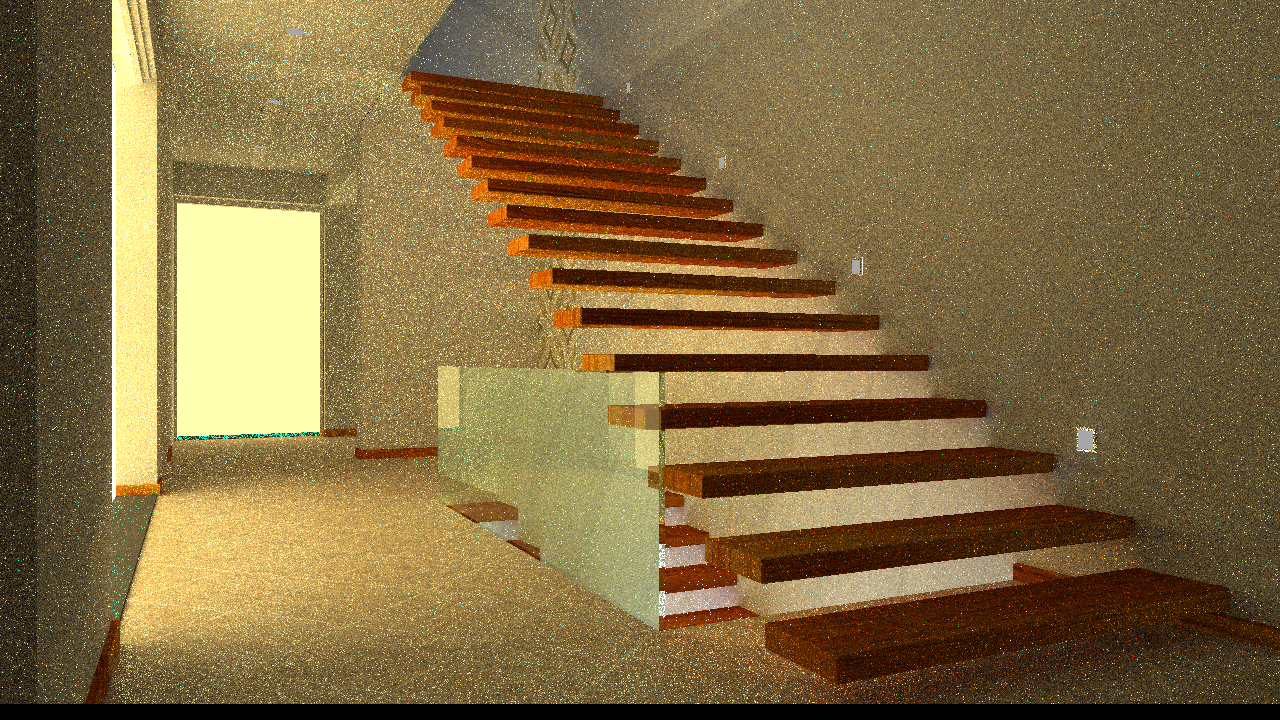
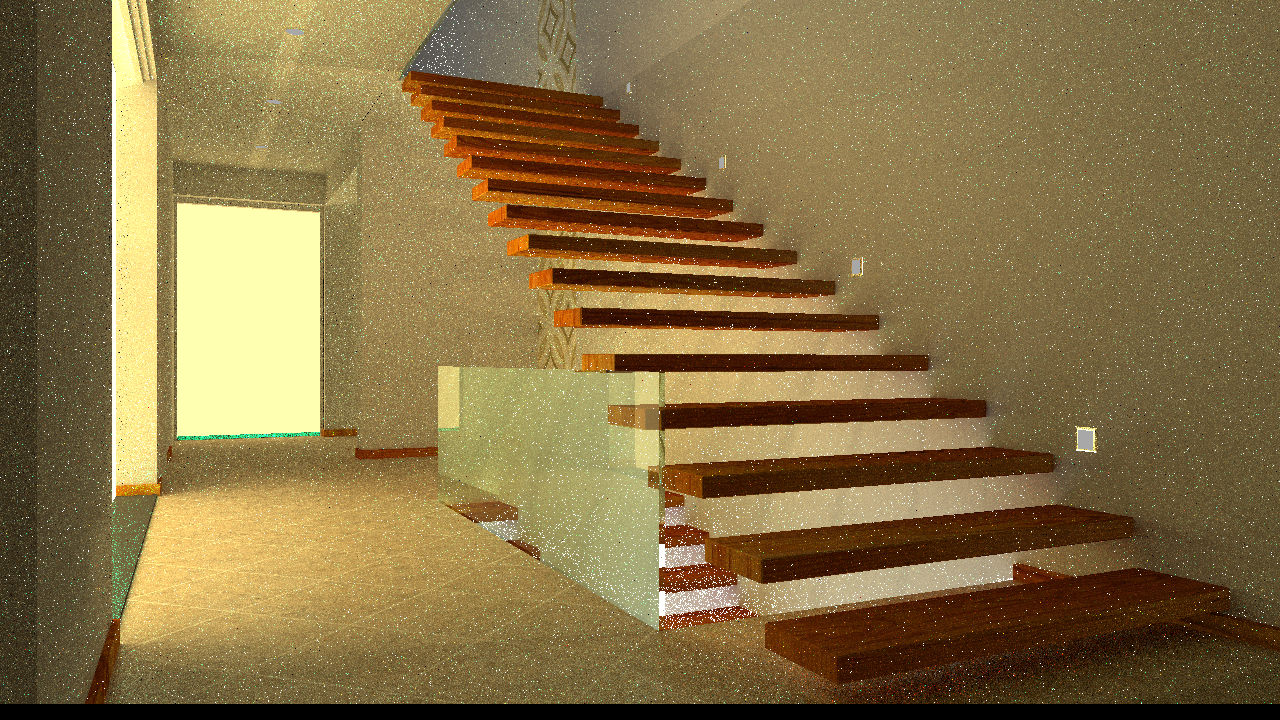
update stairscase result image

diff --git a/results/MonteCarloPathTracer.html b/results/MonteCarloPathTracer.html
@@ -263,6 +263,7 @@ pre[data-line] .line-highlight[data-end]:after {
       <div class="mume markdown-preview  ">
       <div><h1 class="mume-header" id="monte-carlo-path-tracer">Monte Carlo Path Tracer</h1>
 
+<hr>
 <h2 class="mume-header" id="features">Features</h2>
 
 <ul>
@@ -274,27 +275,29 @@ pre[data-line] .line-highlight[data-end]:after {
 </ul>
 <h2 class="mume-header" id="results">Results</h2>
 
-<h4 class="mume-header" id="veach-mis-spp128">veach-mis <em><strong>(spp=128)</strong></em></h4>
+<h3 class="mume-header" id="veach-mis--methodmis-nbsp-spp1024-nbsp-time20mins">veach-mis &#x3000;<em>(method=MIS &#xA0; spp=1024 &#xA0; time~=20mins)</em></h3>
 
 <img src="veach-mis.png" width height="512" alt="veach-mis">
-<h4 class="mume-header" id="cornell-box-spp16">cornell-box <em><strong>(spp=16)</strong></em></h4>
+<h3 class="mume-header" id="cornell-box---methodnee-nbsp-spp16-nbsp-time05h">cornell-box  &#x3000;<em>(method=NEE &#xA0; spp=16 &#xA0; time=~0.5h)</em></h3>
 
 <img src="cornell-box.png" width height="512" alt="cornell-box">
-<h4 class="mume-header" id="stairscase-spp128">stairscase <em><strong>(spp=128)</strong></em></h4>
+<h3 class="mume-header" id="stairscase---methodmis-nbsp-spp1024-nbsp-time4h">stairscase  &#x3000;<em>(method=MIS &#xA0; spp=1024 &#xA0; time=~4h)</em></h3>
 
 <img src="stairscase.png" width height="512" alt="stariscase">
 <h2 class="mume-header" id="usage">Usage</h2>
 
-<pre data-role="codeBlock" data-info="c++" class="language-cpp">mkdir build <span class="token operator">&amp;&amp;</span> cd build <span class="token operator">&amp;&amp;</span> make <span class="token operator">-</span>j4 <span class="token operator">&amp;&amp;</span> <span class="token punctuation">.</span><span class="token operator">/</span>PathTracing veach<span class="token operator">-</span>mis <span class="token number">16</span> NEE
-<span class="token punctuation">.</span><span class="token operator">/</span>PathTracing <span class="token punctuation">[</span>arg1<span class="token punctuation">]</span> <span class="token punctuation">[</span>arg2<span class="token punctuation">]</span> <span class="token punctuation">[</span>arg3<span class="token punctuation">]</span>
-arg1<span class="token operator">:</span> foldername in <span class="token operator">/</span>models
-arg2<span class="token operator">:</span> samples per pixel AKA spp
-arg3<span class="token operator">:</span> different sampling <span class="token function">method</span> <span class="token punctuation">(</span>options<span class="token operator">:</span> NEE<span class="token operator">/</span>BRDF<span class="token operator">/</span>MIS<span class="token punctuation">)</span>
+<pre data-role="codeBlock" data-info="bash" class="language-bash"><span class="token function">mkdir</span> build <span class="token operator">&amp;&amp;</span> <span class="token builtin class-name">cd</span> build <span class="token operator">&amp;&amp;</span> <span class="token function">make</span> -j4 <span class="token operator">&amp;&amp;</span> ./PathTracing veach-mis <span class="token number">16</span> NEE
+./PathTracing <span class="token punctuation">[</span>arg1<span class="token punctuation">]</span> <span class="token punctuation">[</span>arg2<span class="token punctuation">]</span> <span class="token punctuation">[</span>arg3<span class="token punctuation">]</span>
+arg1: foldername <span class="token keyword keyword-in">in</span> /models
+arg2: samples per pixel AKA spp
+arg3: different sampling method <span class="token punctuation">(</span>options: NEE/BRDF/MIS<span class="token punctuation">)</span>
 </pre><h2 class="mume-header" id="environment">Environment</h2>
 
 <ul>
 <li>OS: wsl2 ubuntu 20.04</li>
-<li>IDE: Visual Studio Code &amp; cmake</li>
+<li>CPU: AMD Ryzen 7 5800H 3.20 GHz</li>
+<li>RAM: 16G DDR4 3200MHz</li>
+<li>IDE: Visual Studio Code &amp; g++ &amp; cmake</li>
 <li>Dependency Lib (all in <strong>/libs</strong>)&#xFF1A;
 <ol>
 <li>pugixml
@@ -316,7 +319,7 @@ arg3<span class="token operator">:</span> different sampling <span class="token 
 </ol>
 </li>
 </ul>
-<h2 class="mume-header" id="code-structure">Code Structure</h2>
+<h2 class="mume-header" id="code-description">Code Description</h2>
 
 <table>
 <thead>
@@ -328,32 +331,84 @@ arg3<span class="token operator">:</span> different sampling <span class="token 
 </thead>
 <tbody>
 <tr>
-<td style="text-align:center">Material</td>
-<td style="text-align:center">define material&apos;s <strong>property</strong> and how to <strong>sample</strong>, <strong>eval</strong>, <strong>calculate pdf</strong> of the material</td>
-<td style="text-align:left"></td>
-</tr>
-<tr>
-<td style="text-align:center">BVH</td>
-<td style="text-align:center"><strong>build</strong> bvh and get <strong>intersection</strong> of bvh</td>
+<td style="text-align:center">main.cpp</td>
+<td style="text-align:center">Data process: parse files and args, set scene for rendering</td>
 <td style="text-align:left"></td>
 </tr>
 <tr>
 <td style="text-align:center">Scene</td>
-<td style="text-align:center">define <strong>castRay(core function)</strong>, store <strong>objects</strong> and <strong>parameters</strong> for render</td>
+<td style="text-align:center">Define <strong>castRay(core function)</strong>, store <strong>objects</strong> and <strong>parameters</strong> for render</td>
+<td style="text-align:left"></td>
+</tr>
+<tr>
+<td style="text-align:center">Material</td>
+<td style="text-align:center">Define material&apos;s <strong>property</strong> and how to <strong>sample</strong>, <strong>eval</strong>, <strong>calculate pdf</strong> of the material</td>
+<td style="text-align:left"></td>
+</tr>
+<tr>
+<td style="text-align:center">BVH</td>
+<td style="text-align:center">Build bvh and get intersection of bvh</td>
+<td style="text-align:left"></td>
+</tr>
+<tr>
+<td style="text-align:center">Bounds3</td>
+<td style="text-align:center">Implement Axis-Aligned Bounding Box (AABB)</td>
 <td style="text-align:left"></td>
 </tr>
 <tr>
 <td style="text-align:center">Renderer</td>
-<td style="text-align:center">shoot rays, write results to file</td>
+<td style="text-align:center">Shoot rays, write results to PNG file</td>
 <td style="text-align:left"></td>
 </tr>
 <tr>
-<td style="text-align:center">main.cpp</td>
-<td style="text-align:center">data process: parse files, set scene for rendering</td>
+<td style="text-align:center">Object</td>
+<td style="text-align:center">Define base class Object, virtual method</td>
+<td style="text-align:left"></td>
+</tr>
+<tr>
+<td style="text-align:center">Triangle</td>
+<td style="text-align:center">Define Class Mesh and Class Triangle</td>
+<td style="text-align:left">inherit from Object</td>
+</tr>
+<tr>
+<td style="text-align:center">Sphere</td>
+<td style="text-align:center">Define Class Sphere</td>
+<td style="text-align:left">inherit from Object</td>
+</tr>
+<tr>
+<td style="text-align:center">Light</td>
+<td style="text-align:center">Define base class Light</td>
+<td style="text-align:left"></td>
+</tr>
+<tr>
+<td style="text-align:center">AreaLight</td>
+<td style="text-align:center">Define Class AreaLight</td>
+<td style="text-align:left">inherit from Light</td>
+</tr>
+<tr>
+<td style="text-align:center">Ray</td>
+<td style="text-align:center">Define ray&apos;s properties</td>
+<td style="text-align:left"></td>
+</tr>
+<tr>
+<td style="text-align:center">Intersection</td>
+<td style="text-align:center">Define intersection&apos;s properties</td>
+<td style="text-align:left"></td>
+</tr>
+<tr>
+<td style="text-align:center">Vector</td>
+<td style="text-align:center">Implement vector operation</td>
+<td style="text-align:left"></td>
+</tr>
+<tr>
+<td style="text-align:center">global</td>
+<td style="text-align:center">Implement util functions</td>
 <td style="text-align:left"></td>
 </tr>
 </tbody>
 </table>
+<h2 class="mume-header" id="link">Link</h2>
+
 </div>
       </div>
       

diff --git a/Scene.cpp b/Scene.cpp
@@ -164,7 +164,7 @@ Vector3f Scene::Direct_Illumination(const Ray &ray, Intersection &inter, float &
         Vector3f NN = inter_light.normal;
         Vector3f emit = inter_light.emit;
         // denoise: remove vertical black lines in cornell-box
-        Vector3f newP = p + N*1e-3;
+        Vector3f newP = dotProduct(p,N) > 0 ? p + N*1e-3 : p - N*1e-3;
         Ray p2x(newP, ws);
         Intersection middle = intersect(p2x);
         float accuracy = 1e-3;
@@ -181,6 +181,8 @@ Vector3f Scene::Direct_Illumination(const Ray &ray, Intersection &inter, float &
 
 Vector3f Scene::castRay_NEE(const Ray &ray, int depth) const
 {
+    if(depth>maxDepth) return Vector3f(0.5f,0.5f,0.5f);
+
     Intersection inter = intersect(ray);
 
     if (!inter.happened)
@@ -205,9 +207,21 @@ Vector3f Scene::castRay_NEE(const Ray &ray, int depth) const
         return Vector3f();
     }
 
+        // reflect & refract
+    if (inter.m->ior != 1){
+        Vector3f reflectionDirection = normalize(reflect(ray.direction, N));
+        Vector3f refractionDirection = normalize(refract(ray.direction, N, inter.m->ior));
+        Vector3f reflectionRayOrig = (dotProduct(reflectionDirection, N) < 0) ? p - N * EPSILON : p + N * EPSILON;
+        Vector3f refractionRayOrig = (dotProduct(refractionDirection, N) < 0) ? p - N * EPSILON : p + N * EPSILON;
+        Vector3f reflectionColor = castRay_NEE(Ray(reflectionRayOrig, reflectionDirection), depth + 1);
+        Vector3f refractionColor = castRay_NEE(Ray(refractionRayOrig, refractionDirection), depth + 1);
+        float kr;
+        fresnel(ray.direction, N, inter.m->ior, kr);
+        return reflectionColor * kr + refractionColor * (1 - kr) * inter.m->Tr;
+    }
     // phong reflectance model
-    if (inter.m->ior == 1)
-    {
+   
+
         Vector3f L_dir, L_indir;
         float pdf_DI = 0;
         L_dir = Direct_Illumination(ray, inter, pdf_DI);
@@ -264,21 +278,7 @@ Vector3f Scene::castRay_NEE(const Ray &ray, int depth) const
         }
         // Next Event Estination
         return L_dir + L_indir;
-    }
 
-    // reflect & refract
-    else
-    {
-        Vector3f reflectionDirection = normalize(reflect(ray.direction, N));
-        Vector3f refractionDirection = normalize(refract(ray.direction, N, inter.m->ior));
-        Vector3f reflectionRayOrig = (dotProduct(reflectionDirection, N) < 0) ? p - N * EPSILON : p + N * EPSILON;
-        Vector3f refractionRayOrig = (dotProduct(refractionDirection, N) < 0) ? p - N * EPSILON : p + N * EPSILON;
-        Vector3f reflectionColor = castRay_NEE(Ray(reflectionRayOrig, reflectionDirection), depth + 1);
-        Vector3f refractionColor = castRay_NEE(Ray(refractionRayOrig, refractionDirection), depth + 1);
-        float kr;
-        fresnel(ray.direction, N, inter.m->ior, kr);
-        return reflectionColor * kr + refractionColor * (1 - kr) * inter.m->Tr;
-    }
 }
 
 

diff --git a/Scene.hpp b/Scene.hpp
@@ -24,7 +24,7 @@ public:
     Vector3f up = Vector3f(0, 1, 0);
     double fov = 40;
     Vector3f backgroundColor = Vector3f(0.235294, 0.67451, 0.843137);
-    int maxDepth = 8;
+    int maxDepth = 16;
     int spp = 16;
     std::string model_name = "veach-mis";
     std::string sampling_mode = "NEE";

diff --git a/results/MonteCarloPathTracer.md b/results/MonteCarloPathTracer.md
@@ -1,7 +1,5 @@
 # Monte Carlo Path Tracer
 
----- 
-
 ## Features
 - [x] BVH Acceleration
 - [x] Multi-threading
@@ -17,7 +15,7 @@
 ### cornell-box  　*(method=NEE &nbsp; spp=16 &nbsp; time=~0.5h)*
 <img src="cornell-box.png"  width="" height="512" alt="cornell-box">
 
-### stairscase  　*(method=MIS &nbsp; spp=1024 &nbsp; time=~4h)*
+### stairscase  　*(method=MIS &nbsp; spp=1024 &nbsp; time=~200mins)*
 <img src="stairscase.png"  width="" height="512" alt="stariscase">
 
 ## Usage
@@ -46,7 +44,7 @@ arg3: different sampling method (options: NEE/BRDF/MIS)
 ## Code Description  
 
 |filename|description|p.s.|
-|:---:|:---:|:---|
+|:---:|:---:|:---:|
 |main.cpp|Data process: parse files and args, set scene for rendering||
 |Scene|Define **castRay(core function)**, store **objects** and **parameters** for render||
 |Material|Define material's **property** and how to **sample**, __eval__, **calculate pdf** of the material||
